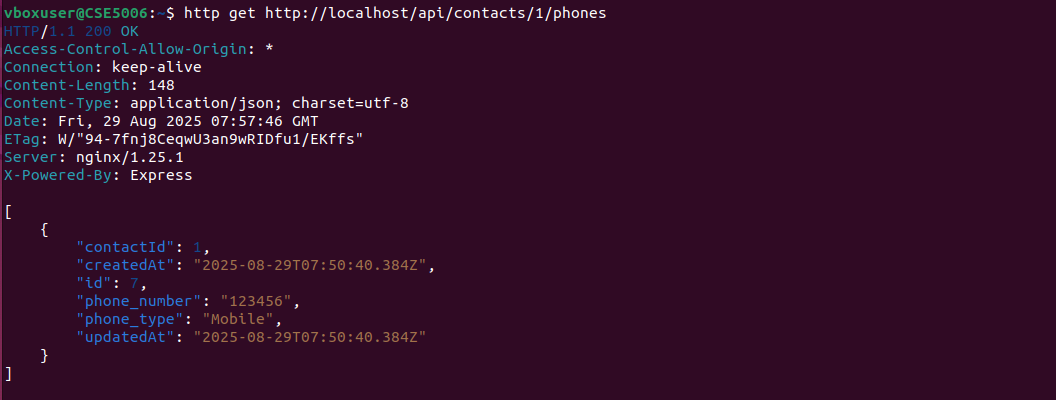
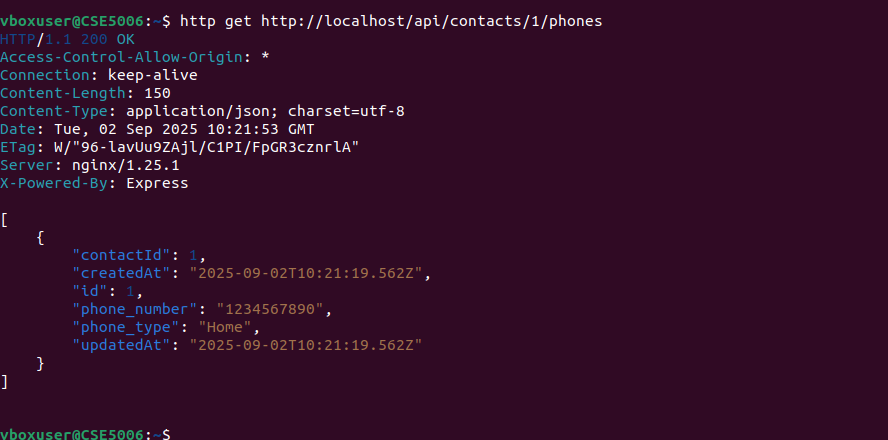
task 3 fixed added before and afters

diff --git a/README.md b/README.md
@@ -158,18 +158,18 @@ http get http://localhost/api/contacts/1/phones
 
 2. Add Phones 
 ```
-http post http://localhost/api/contacts/1/phones phone_type="Home" phone_number="1234567890"
+http post http://localhost/api/contacts/1/phones phone_type="work" phone_number="0987654321"
 ```
 ![Image](images/phonepost3.png)
 
 3. Delete Phones 
 ```
-http delete http://localhost/api/contacts/1/phones/8
+http delete http://localhost/api/contacts/1/phones/2
 ```
 ![Image](images/phonedelete3.png)
 
 4. Update Phones 
 ```
-http put http://localhost/api/contacts/1/phones/7 phone_number="0987654321"
+http put http://localhost/api/contacts/1/phones/1 phone_number="0987654321"
 ```
 ![Image](images/phoneput3.png)
